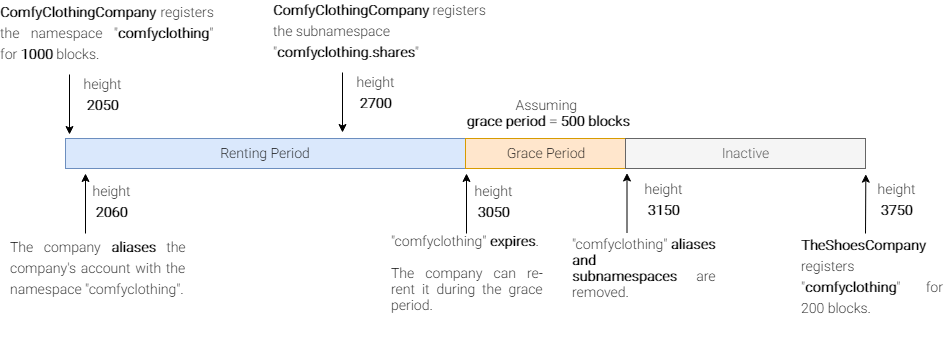
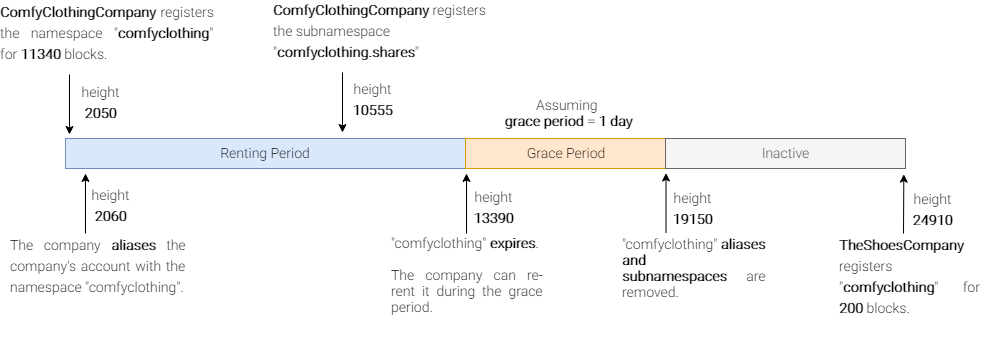
Updated figure

diff --git a/source/concepts/namespace.rst b/source/concepts/namespace.rst
@@ -26,7 +26,7 @@ Namespaces can have up to ``3`` levels, a namespace and its two levels of subnam
 Alias
 *****
 
-:ref:`Alias transactions <address-alias-transaction>` link namespaces to accounts, and mosaics.
+:ref:`Alias transactions <address-alias-transaction>` link namespaces to accounts and mosaics.
 
 An alias or its linked asset can be used interchangeably when sending a transaction. Using the alias makes long addresses rememberable and mosaics recognizable.
 
@@ -59,7 +59,7 @@ The maximum namespace duration is ``365`` days. By default, the network is confi
 
 During the renting period, the namespace owner can create subnamespaces, alias accounts and mosaics. The owner can also **extend the rental** by sending a :ref:`register namespace transaction <register-namespace-transaction>` with the desired number of additional blocks.
 
-The network can define a **grace period** that enables the namespace owner to renew the namespace for a certain amount of additional blocks past the expiration date before it becomes publicly available for registration.
+The network `can define <https://github.com/nemtech/catapult-server/blob/master/resources/config-network.properties>`_ a **grace period** that enables the namespace owner to renew the namespace for a certain amount of additional blocks past the expiration date before it becomes publicly available for registration.
 
 When the grace period ends, the existing aliases and subnamespaces are pruned, becoming **inactive**. Hence, other accounts can now register the namespace again.
 
